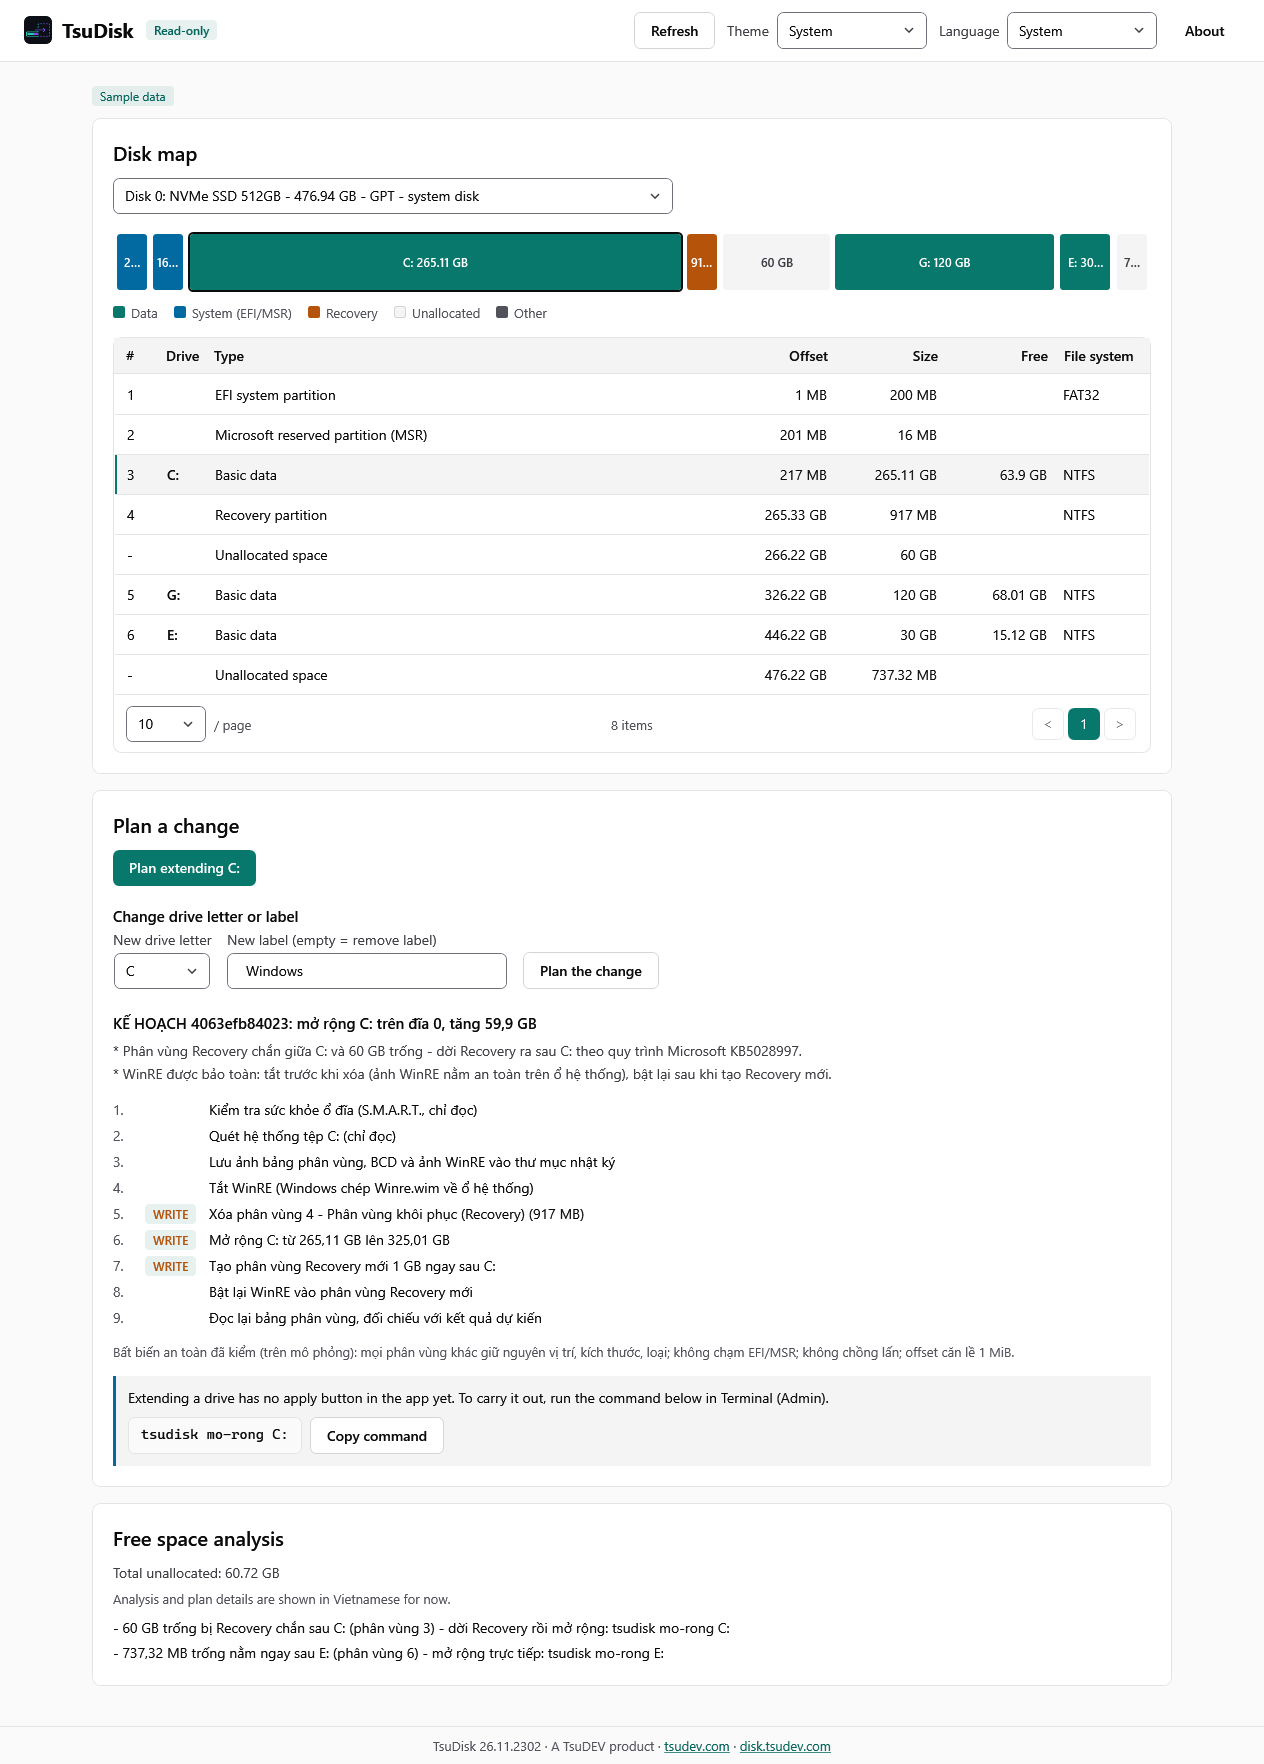
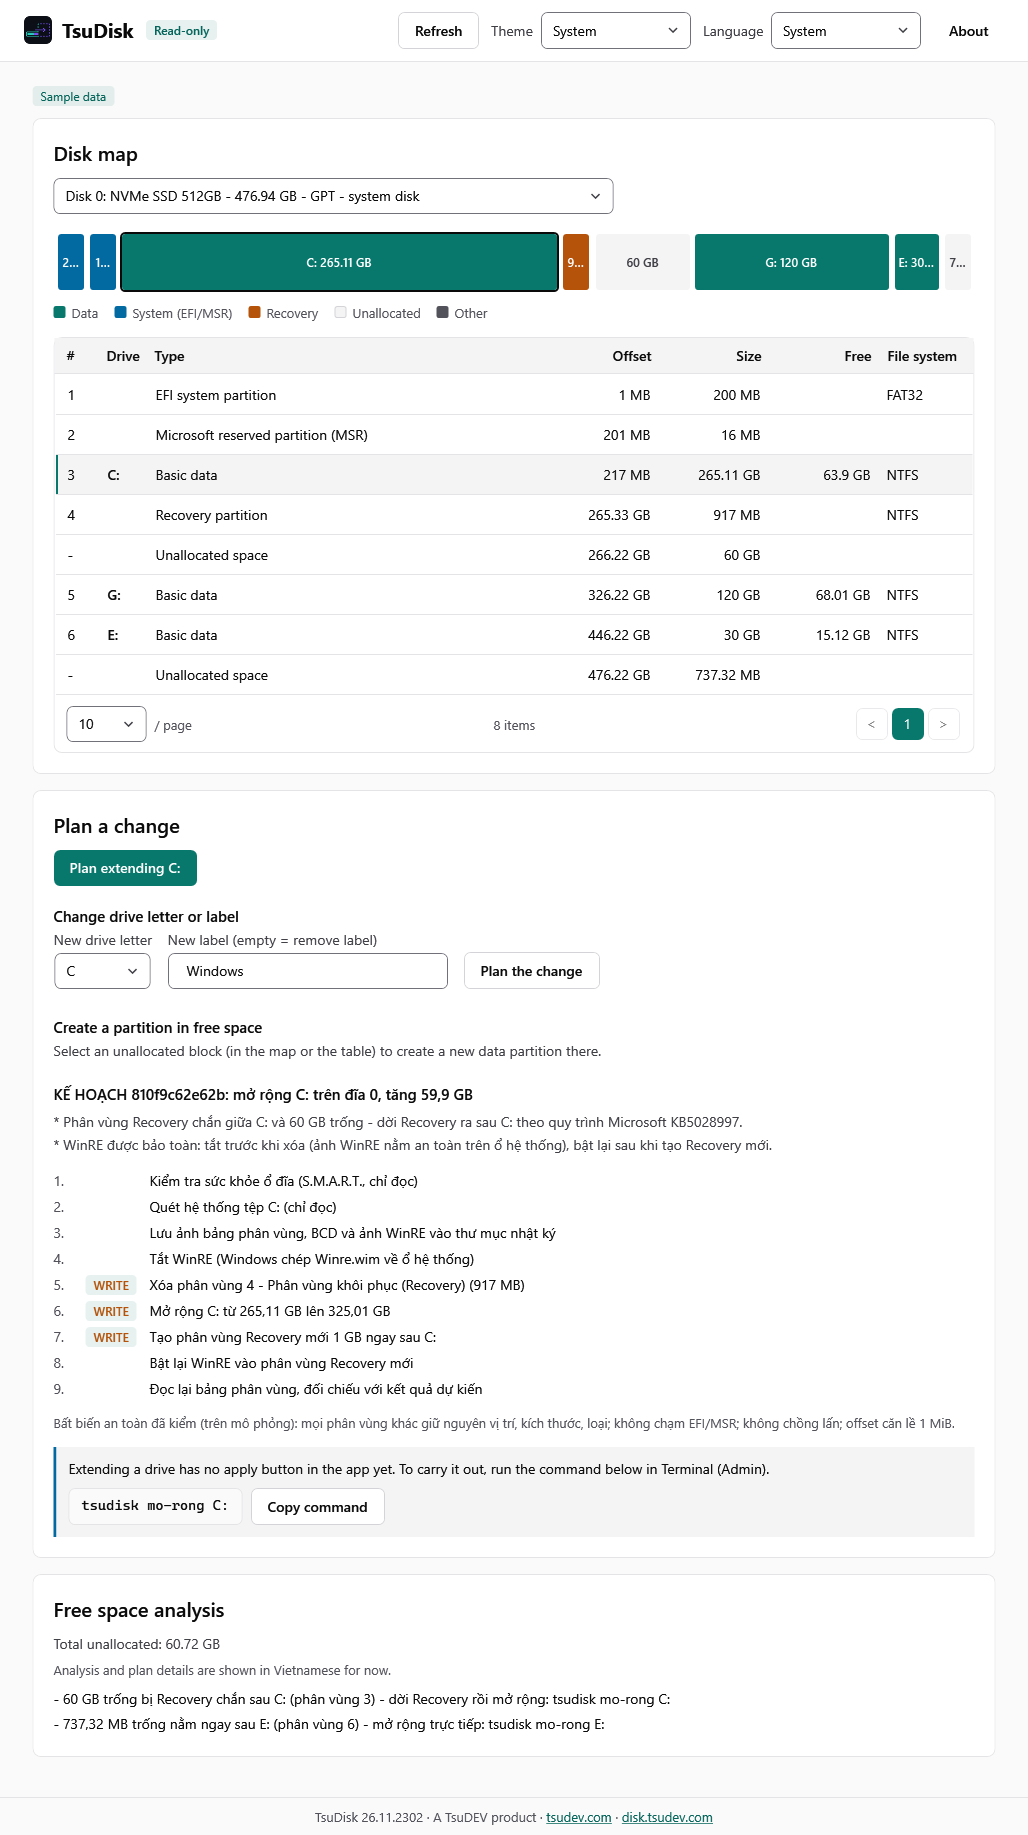
release: 26.11.2303 - giao diện tạo phân vùng trong vùng trống (ADR-0010) (#71)
- CHANGELOG 26.11.2303, VersionPrefix; trang Tải về: gói GUI có tạo phân vùng.
- Ảnh GUI chụp lại từ CI #70 (có mục tạo phân vùng). ADR-0010: E2E GUI 35/35 trên CI Windows (VHDX).

diff --git a/website/src/lib/noi-dung.ts b/website/src/lib/noi-dung.ts
@@ -134,7 +134,7 @@ export interface BanPhatHanh { tag: string; phienBan: string; ngay: string; url:
 export const LOAI_GOI: { ma: string; tieuDe: string; moTa: string; mau: RegExp }[] = [
   { ma: 'setup', tieuDe: 'Bộ cài đặt', moTa: 'Cài vào Program Files, thêm tsudisk vào PATH, có mục gỡ cài đặt.', mau: /^tsudisk_.+_x64-setup\.exe$/ },
   { ma: 'portable', tieuDe: 'Bản di động', moTa: 'Một tệp tsudisk.exe chạy thẳng, không cài, không cần .NET. Mở Terminal (Admin) ở thư mục chứa tệp.', mau: /^tsudisk_.+_(windows-)?x64-portable\.exe$/ },
-  { ma: 'gui', tieuDe: 'Giao diện cửa sổ (xem trước)', moTa: 'Một tệp tsudisk-gui.exe chạy thẳng: bản đồ đĩa, phân tích vùng trống, xem trước kế hoạch, đổi chữ cái/nhãn ổ. Các thao tác ghi khác vẫn dùng tsudisk.exe.', mau: /^tsudisk-gui_.+_windows-x64-portable\.exe$/ },
+  { ma: 'gui', tieuDe: 'Giao diện cửa sổ (xem trước)', moTa: 'Một tệp tsudisk-gui.exe chạy thẳng: bản đồ đĩa, phân tích vùng trống, xem trước kế hoạch, đổi chữ cái/nhãn ổ, tạo phân vùng trong vùng trống. Các thao tác ghi khác vẫn dùng tsudisk.exe.', mau: /^tsudisk-gui_.+_windows-x64-portable\.exe$/ },
 ];
 const PHU: { tieuDe: string; moTa: string; mau: RegExp }[] = [
   { tieuDe: 'SBOM', moTa: 'Danh mục thành phần phần mềm (SPDX) của bản phát hành.', mau: /sbom(\.spdx)?\.json$/ },

diff --git a/docs/adr/0010-giao-dien-tao-phan-vung.md b/docs/adr/0010-giao-dien-tao-phan-vung.md
@@ -1,6 +1,7 @@
 # ADR-0010: Giao diện áp dụng thao tác thứ hai - tạo phân vùng trong vùng trống
 
 - **Trạng thái**: Chấp nhận - 23/11/2026 (chủ dự án duyệt "GUI bước 3" trong phiên 9)
+- **Phát hành**: 26.11.2303 - trước đó E2E GUI đạt 35/35 trên CI Windows (ổ ảo VHDX, ca G1-G6, #70).
 - **Liên quan**: ADR-0009 (đường chạy chung `PlanExecution`, xác nhận hai lần, `AllowedOperations`), ADR-0002 (mọi thao
   tác là một `Plan`, bất biến, hoàn tác), `CreatePartitionPlanner` (rủi ro Vừa: ghi bảng phân vùng + định dạng, nhưng chỉ
   trong vùng trống). Bổ sung, không thay ADR-0009.

diff --git a/CHANGELOG.md b/CHANGELOG.md
@@ -2,7 +2,7 @@
 
 Mới nhất ở trên. Phiên bản theo khuôn `YY.M.DDNN` (`.standards/docs/VERSIONING.md` mục 2).
 
-## [Chưa phát hành]
+## [26.11.2303] - 23/11/2026
 
 - Giao diện cửa sổ: tạo phân vùng dữ liệu mới trong vùng trống (chọn khối trống trên bản đồ, nhập kích thước MB hoặc để
   trống để dùng hết, chọn NTFS/exFAT/FAT32, nhãn, chữ cái). Cần quyền quản trị; xác nhận hai lần: bấm "Áp dụng" rồi gõ
